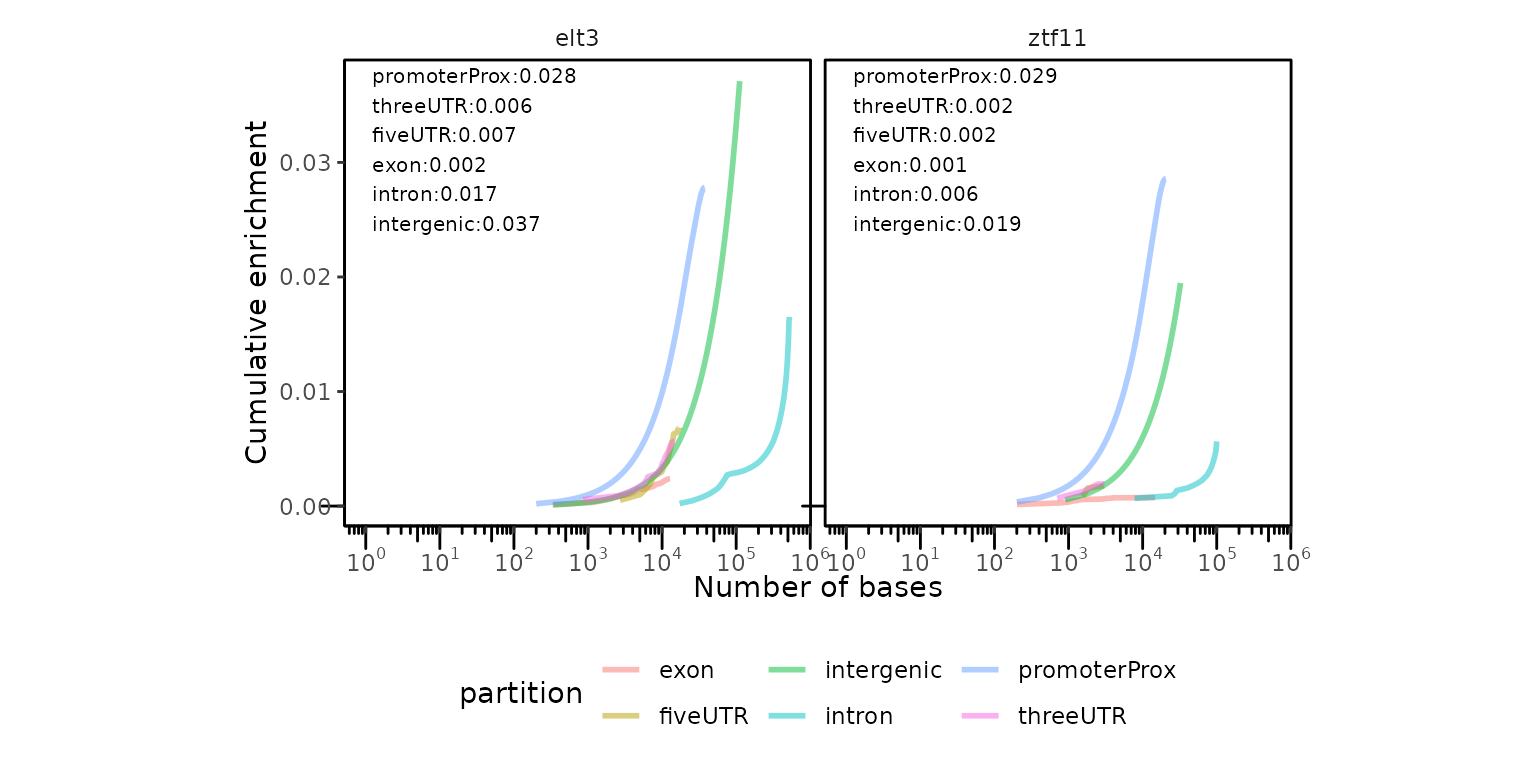
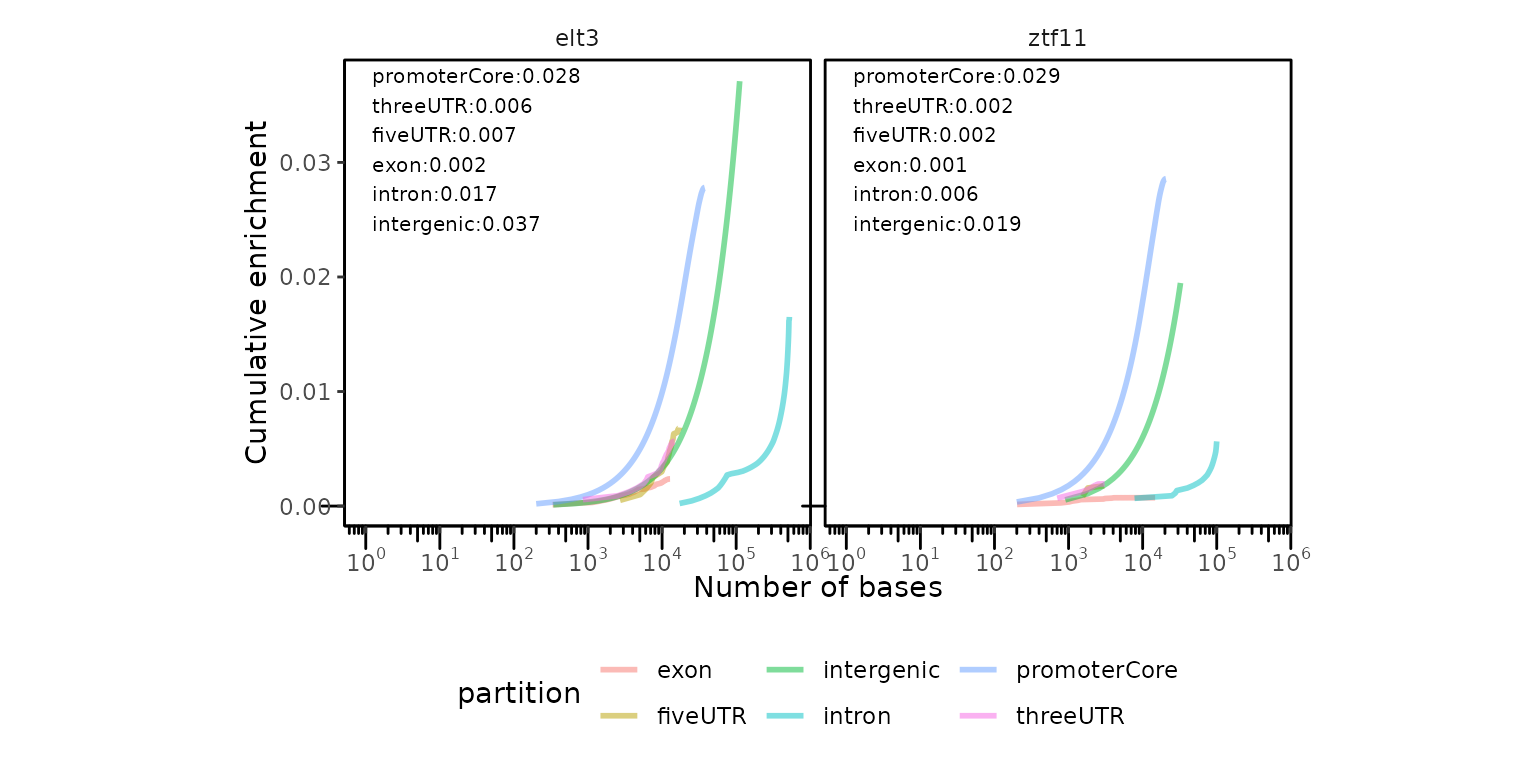
Deploying to gh-pages from @ kkupkova/GenomicDistributionsBioC2022@29cc0d1374b7d5443ac30ee64749a9efbd93e026 🚀

diff --git a/articles/GenomicDistributions_vignette.html b/articles/GenomicDistributions_vignette.html
@@ -645,7 +645,7 @@ our annotation functions will take care of everything else!</p>
 <span><span class="va">fastaSource</span> <span class="op">=</span> <span class="fu"><a href="https://rdrr.io/r/base/system.file.html" class="external-link">system.file</a></span><span class="op">(</span><span class="st">"extdata"</span>, <span class="st">"ce11.fa.gz"</span>, </span>
 <span>                          package<span class="op">=</span><span class="st">"GenomicDistributionsBioC2022"</span><span class="op">)</span></span>
 <span><span class="va">fastaSource</span></span>
-<span><span class="co">#&gt; [1] "/tmp/Rtmp7bpcc9/temp_libpath537a6a06d0/GenomicDistributionsBioC2022/extdata/ce11.fa.gz"</span></span></code></pre></div>
+<span><span class="co">#&gt; [1] "/tmp/RtmpHQyWfx/temp_libpath3f230dcb3c1/GenomicDistributionsBioC2022/extdata/ce11.fa.gz"</span></span></code></pre></div>
 <div class="section level5">
 <h5 id="get-chromosome-sizes">1. Get chromosome sizes<a class="anchor" aria-label="anchor" href="#get-chromosome-sizes"></a>
 </h5>
@@ -698,7 +698,7 @@ everything will be taken care of.</p>
 <span><span class="va">gtfSource</span> <span class="op">=</span> <span class="fu"><a href="https://rdrr.io/r/base/system.file.html" class="external-link">system.file</a></span><span class="op">(</span><span class="st">"extdata"</span>, <span class="st">"ce11.gtf.gz"</span>, </span>
 <span>                          package<span class="op">=</span><span class="st">"GenomicDistributionsBioC2022"</span><span class="op">)</span></span>
 <span><span class="va">gtfSource</span></span>
-<span><span class="co">#&gt; [1] "/tmp/Rtmp7bpcc9/temp_libpath537a6a06d0/GenomicDistributionsBioC2022/extdata/ce11.gtf.gz"</span></span></code></pre></div>
+<span><span class="co">#&gt; [1] "/tmp/RtmpHQyWfx/temp_libpath3f230dcb3c1/GenomicDistributionsBioC2022/extdata/ce11.gtf.gz"</span></span></code></pre></div>
 </div>
 <div class="section level5">
 <h5 id="get-list-of-tsss">3. Get list of TSSs<a class="anchor" aria-label="anchor" href="#get-list-of-tsss"></a>
@@ -867,10 +867,11 @@ extracting gene models.</p>
 <span>                                    exonsGR <span class="op">=</span> <span class="va">Celegans_geneModels</span><span class="op">$</span><span class="va">exon</span>, </span>
 <span>                                    threeUTRGR <span class="op">=</span> <span class="va">Celegans_geneModels</span><span class="op">$</span><span class="va">three_prime_utr</span>,</span>
 <span>                                    fiveUTRGR <span class="op">=</span> <span class="va">Celegans_geneModels</span><span class="op">$</span><span class="va">five_prime_utr</span>, </span>
-<span>                                    getCorePromoter <span class="op">=</span> <span class="cn">FALSE</span>, </span>
-<span>                                    proxPromSize <span class="op">=</span> <span class="fl">200</span><span class="op">)</span></span>
+<span>                                    getCorePromoter <span class="op">=</span> <span class="cn">TRUE</span>, </span>
+<span>                                    getProxPromoter <span class="op">=</span> <span class="cn">FALSE</span>, </span>
+<span>                                    corePromSize <span class="op">=</span> <span class="fl">200</span><span class="op">)</span></span>
 <span><span class="va">partitionList</span></span>
-<span><span class="co">#&gt; $promoterProx</span></span>
+<span><span class="co">#&gt; $promoterCore</span></span>
 <span><span class="co">#&gt; GRanges object with 19392 ranges and 0 metadata columns:</span></span>
 <span><span class="co">#&gt;           seqnames      ranges strand</span></span>
 <span><span class="co">#&gt;              &lt;Rle&gt;   &lt;IRanges&gt;  &lt;Rle&gt;</span></span>
